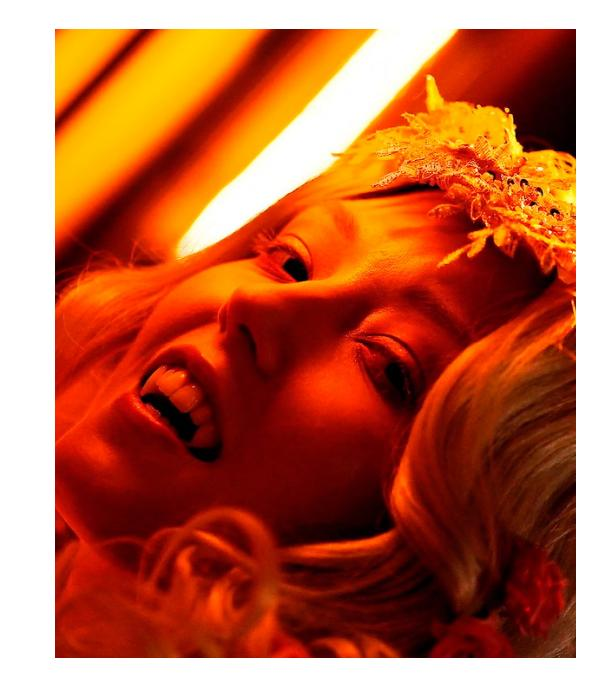
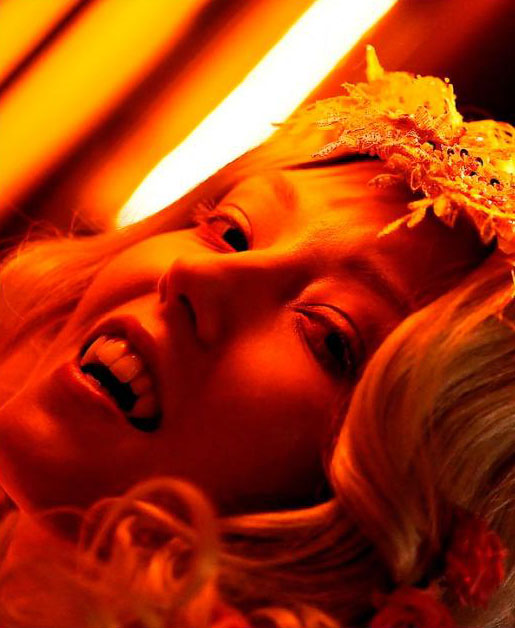
Quartz sync: Jul 4, 2025, 7:23 PM

diff --git a/content/Места и лица/Maharani/The Wyrd Sisters.md b/content/Места и лица/Maharani/The Wyrd Sisters.md
@@ -1,8 +1,8 @@
 Когда Сан-Диего пал перед Второй Инквизицией, многие его сородичи бежали на север, в Лос-Анджелес. Среди них были три «сестры»-Тремере — Хестер, Виолет Луна и Кёко, независимые практики, поселившиеся в спорном домене барона [[Долина|Долины]] [[Виктор Темпл|Виктора Темпла]]. Управляя небольшим эзотерическим магазином и книжной лавкой «Мистический Круг», сёстры Вирд стараются не привлекать к себе внимания, усвоив суровый урок о том, что бывает с теми, кто попадает в поле зрения Инквизиции.
 
-Будучи, возможно, единственной оставшейся в Лос-Анджелесе тремерской свитой, они часто оказываются востребованы, а Хестер и Виолет Луна прекрасно понимают природу общества сородичей и его негласные правила. Поэтому сёстры часто заключают сделки и предлагают услуги тем, кто готов им помочь и заслужить их доверие.
+![](wyrd.png)
 
-![](wyrd.jpeg)
+Будучи, возможно, единственной оставшейся в Лос-Анджелесе тремерской свитой, они часто оказываются востребованы, а Хестер и Виолет Луна прекрасно понимают природу общества сородичей и его негласные правила. Поэтому сёстры часто заключают сделки и предлагают услуги тем, кто готов им помочь и заслужить их доверие.
 
 ⬤ **Мистический кружок:** Ты достаточно втерся в доверие к сёстрам, чтобы иметь свободный доступ ко всем подсобкам их магазина. Магазин считается для тебя эквивалентом двухточечной Библиотеки (см. Убежище, V5 Core, стр. 189), хотя использовать его как убежище нельзя. Ты пользуешься этими томами по милости сестёр, и они могут отозвать это право или потребовать мелких услуг для его сохранения.
 

diff --git a/content/Места и лица/Thorn/Хлоя Хадсон.md b/content/Места и лица/Thorn/Хлоя Хадсон.md
@@ -4,7 +4,7 @@
 
 После спасения Хлои от Инквизиции [[Ева]] с помощью ритуала освободила её от кровавой связи, позволив Хлое вновь обрести свободу воли. В наши ночи Хлоя управляет информационной стороной домена барона [[Нелли Гриффит|Гриффит]] и руководит Сетью Архангела — организацией, помогающей гулям и сородичам освободиться от кровавых уз и зависимости от регнантов. [[The Archangel network|Сеть Архангела]] действует в городах по всей Северной Америке, предоставляя поддержку, информацию и помощь тем, кто стремится к свободе.
 
-![](tan.jpeg)
+![](tan.png)
 
 Многие гули страдают под гнётом зависимости — не только от витэ, но и от его поставщика, своего регнанта. Хлоя Хадсон начала свою карьеру как ведущая пиратского радио, открыто нарушая Маскарад, но, будучи гулем, она нашла другой путь, и так была создана Сеть. Теперь Сеть Архангела действует в городах по всей Северной Америке и выполняет прежде невиданную функцию — помогает тем, кто связан кровью, разорвать свои узы и освободить сердце и душу от сладостной зависимости от витэ своих регнантов. Цена проста — твое собственное витэ или полезная информация. Ты можешь быть гулем или вампиром — независимо от природы, в Сети Архангела найдётся место для тебя: друга, наставника, терапевта или просто плеча, на которое можно опереться. Если ты вампир, на тебе лежит дополнительная ответственность — поставлять «чистое» витэ, чтобы поддерживать связанных кровью, пока их связь с регнантом медленно ослабевает месяцами или даже годами.
 

diff --git a/content/Места и лица/Maharani/Виктор Темпл.md b/content/Места и лица/Maharani/Виктор Темпл.md
@@ -4,7 +4,7 @@
 
 В прошлом Виктор был женат и имел троих детей, но ради их безопасности дистанцировался от семьи. Когда многообещающая карьера Виктора в NBA была прервана несчастным случаем, он быстро сменил направление и основал Temple of Boom — звукозаписывающий бизнес, который стал любимцем музыкальной сцены Лос-Анджелеса. Именно этот успех привлёк его сира. Его сын [[Марк Темпл]] — заметная фигура среди анархов, связующее звено между группами города. Виктор поддерживает сложные отношения с бывшими союзниками: с [[Нелли Гриффит]] его связывает соперничество и общее прошлое в котерии, с [[Джаспер|Джаспером]] — союз по защите домена и борьбе с внешними угрозами. В прошлом Виктор и Джаспер вместе убили бывшего Шерифа, что окончательно отрезало путь назад в Камарилью.
 
-![](victor.jpeg)
+![](victor.png)
 
 Виктор активно участвует в политике города, выступая против давления [[Камарилья|Камарильи]] и [[Вторая Инквизиция|Второй Инквизиции]]. Он известен как медиатор между фракциями, но не боится идти на жёсткие меры ради защиты своих людей. После разрушения его прежнего клуба и покушения на жизнь, Виктор построил новый центр — [[Maharani]], который стал символом независимости и силы анархов Долины.
 

diff --git a/content/Места и лица/Погибшие или пропавшие/Айзек Абрамс.md b/content/Места и лица/Погибшие или пропавшие/Айзек Абрамс.md
@@ -2,7 +2,7 @@
 
 Айзек был одним из старейших и наиболее уважаемых представителей [[Анархи|анархов]] Лос-Анджелеса, выступал за мирное сосуществование между фракциями и предпочитал дипломатические методы решения конфликтов. Несмотря на анархические взгляды, сохранял уважение к традициям и иерархии, что сближало его с [[Камарилья|Камарильей]]. Айзек был известен как покровитель творческой элиты, поддерживал проекты в кино- и музыкальной индустрии, а также обеспечивал защиту и поддержку молодым и уязвимым сородичам. Его влияние ощущалось даже после отъезда, а имя стало символом порядка и дипломатии среди анархов.
 
-![](isaac.jpeg)
+![](isaac.png)
 
 Айзек заботился о безопасности своего домена и часто помогал другим вампирам, если это не угрожало его интересам. Его родной потомок — [[Эш Риверс]], бывший актёр, чья неустойчивая натура и проблемы с зависимостями стали причиной обращения. Айзек испытывал вину за судьбу Эша, их отношения со временем охладели, но сохранялись уважение и ответственность. Приёмная дочь Айзека — [[Вельвет Велюр|Вельвет Велюр]] (VV), владелица клуба Vesuvius, считала его отцом и тяжело переживала его отъезд, что сказалось на её публичной жизни и творчестве.
 

diff --git a/content/Места и лица/Thorn/Нелли Гриффит.md b/content/Места и лица/Thorn/Нелли Гриффит.md
@@ -2,7 +2,7 @@
 
 Становление произошло в 2010 году от [[Чез Прайс|Чеза Прайса]] во время поездки в Сан-Франциско. Их отношения быстро закончились, а после трагических событий — диаблери другой потомка Чеза, Донны Кембридж, — Нелли была вынуждена бежать в Лос-Анджелес. Здесь она сблизилась с бывшим бароном [[Айзек Абрамс|Айзеком Абрамсом]], который стал её покровителем и доверенным лицом, а также поручал ей важные миссии, включая работу за пределами города и враждебных доменах.
 
-![](nelli.jpeg)
+![](nelli.png)
 
 В Лос-Анджелесе Нелли основала не только сеть бутиков Thorn, но и школу моды Griffith College, поддерживая и защищая её из тени. Благодаря влиянию и харизме, она быстро заняла важное место в политике анархов, в 2019 году с помощью котерии Нелли уничтожила своего сира Чеза Прайса, освободившись от его влияния, а после ухода Айзека Абрамса в 2020 году была назначена бароном Голливуда. Её стиль управления отличается гибкостью, скоростью принятия решений и умением лавировать между традициями и новыми веяниями. Несмотря на принадлежность к анархам, Нелли сохраняет черты, присущие [[Камарилья|Камарилье]]: уважение к иерархии, традициям и красоте.
 

diff --git a/content/Места и лица/Asylum/Икс.md b/content/Места и лица/Asylum/Икс.md
@@ -4,7 +4,7 @@
 
 Особое место в жизни Икса занимает его дружба с [[Джаспер|Джаспером Хартвудом]], одним из немногих, кому он доверяет. Именно по просьбе Джаспера Икс помогал [[Аннабель]] в первые ночи её становления, а позже сопровождал её и её союзников, оказывая им поддержку своими необычными способностями.
 
-![](x.jpeg)
+![](x.png)
 
 Страдающий постоянными видениями и предчувствиями, Икс пытается осмыслить странные знамения с переменным успехом. Он утверждает, что всё, что он говорит трижды, становится правдой, из-за чего некоторые считают, что у него необычайно сильные пророческие способности. Его имя пользуется уважением среди бездомных и изгоев города, а его помощь иногда оказывается решающей для тех, кто проявил к нему доброту. Его мотивы часто остаются неясными, но он, похоже, стремится поддерживать баланс между различными фракциями города. В эти ночи его можно встретить в [[Santa Monica|Санта-Монике]], часто в компании каитиффов, гулей и тонкокровных, известных как Барабанный Круг. Он редко остаётся на одном месте долго, но бармен [[Вандал Кливeр]] нехотя передаёт послания к нему и от него.
 

diff --git a/content/Места и лица/Камарилья/Иб.md b/content/Места и лица/Камарилья/Иб.md
@@ -4,7 +4,7 @@
 
 В 2012 и 2021 годах, во время атак [[Вторая Инквизиция|Второй Инквизиции]], именно благодаря действиям Иб многие Вентру и их союзники сумели выжить и сохранить свои позиции. Её вклад был настолько значим, что после событий 2021 года она была становлена [[Аврора|Авророй]] и назначена шерифом Лос-Анджелесской Камарильи. В этой роли Иб отвечает за безопасность двора князя [[Ванневар Томас|Ванневара Томаса]], поддерживает порядок и лично курирует расследования, связанные с угрозами для секты.
 
-![](ib.jpeg)
+![](ib.png)
 
 Иб поддерживает рабочие отношения с ключевыми фигурами Камарильи: сенешалем [[Сюзанна Рошель]], регентом [[Максимилиан Штраус|Максимилианом Штраусом]], примогеном [[Катя|Катей]] и судьёй Авророй. Несмотря на лояльность секте, она сохраняет независимость суждений и действует прежде всего в интересах безопасности, а не политических интриг. Её прошлое гулем и связи с Фиорензой Савонной делают Иб объектом особого доверия среди старейшин Вентру, но и источником подозрений для некоторых представителей других кланов.
 

diff --git a/content/Места и лица/Погибшие или пропавшие/Аннабель.md b/content/Места и лица/Погибшие или пропавшие/Аннабель.md
@@ -2,7 +2,7 @@
 
 Была становлена в 2018 году [[Карвер|Карвером]] после нападения Носферату. После становления была вынуждена скрываться и выживать среди студентов, пока не была замечена котерией барона [[Айзек Абрамс|Айзека Абрамса]], которая взяла её под защиту. Аннабель вдохновляла молодых анархов, стала символом нового поколения движения, её образ и лозунги распространялись по всему городу.
 
-![](annabelle.jpeg)
+![](annabelle.png)
 
 Аннабель была буквально лицом движения: сородичи начали размещать её портреты на плакатах и листовках в местах, где бывали их враги. Её целью было применить стратегии и тактики сопротивления власти, которым она научилась в смертной жизни, к ужасающему миру вампиров, в который она попала внезапно и против своей воли. Решив не уходить тихо, Аннабель настаивала, что может показать сородичам Лос-Анджелеса, что идеалы их изначального Анархистского Восстания не исчезли — они лишь тлеют, и могут вновь разгореться, если хватит воли и решимости.
 

diff --git a/content/Места и лица/Валькирии/Рамона.md b/content/Места и лица/Валькирии/Рамона.md
@@ -1,6 +1,6 @@
 [[Гангрел]], которая работает с Валькириями, Рамона — уроженка Лос-Анджелеса, выглядящая как обращённая в позднем подростковом возрасте и ведущая себя соответственно. В 2022 была приглашена [[Кейси]] в ряды [[Валькирии|Валькирий]]. У неё особая связь с крысами, и она использует свою Крысиную Стаю как шпионов и посланников. Ездит на мотоцикле Kawasaki Ninja 400 2021 года в ярко-зелёном цвете.
 
-![](rat.jpeg)
+![](rat.png)
 
 Хотя она пережила худшие проявления как Камарильи, так и анархов в конце 1990-х, теперь она отказывается участвовать в политических интригах Камарильи или фанатичном рвении Шабаша. Она также открыто презирает лицемерие [[Анархи|баронов]] Лос-Анджелеса, указывая, что они не сдержали обещаний, и позволили Свободным Штатам прийти в упадок. Однако она восхищалась Аннабель, ведь молодая Бруха вновь зажгла огонь свободы среди анархов.
 

diff --git a/content/Места и лица/The Last Round/Карвер.md b/content/Места и лица/The Last Round/Карвер.md
@@ -2,7 +2,7 @@
 
 Считается, что именно Карвер стал сиром [[Аннабель]], когда спас её после нападения местного Носферату. После этого он надолго покинул город, но вернулся, чтобы оценить положение тонкокровных и помочь своей потомке и её союзникам в борьбе с наркоторговцами. Позже Карвер вновь исчез, но спустя два года неожиданно объявился, чтобы наладить контакты между тонкокровными Лос-Анджелеса и других городов, предчувствуя надвигающуюся войну. В этот раз он задержался дольше и оказался втянут в нападение Второй Инквизиции.
 
-![](carver.jpeg)
+![](carver.png)
 
 Карвер известен как радикал, не признающий авторитетов и готовый идти на крайние меры ради свободы. Благодаря обширным контактам Карвер способен достать практически всё — от оружия до редких реликвий и зелий тонкокровных, а его имя внушает опасения даже врагам.
 

diff --git a/content/Места и лица/Thorn/Джаспер.md b/content/Места и лица/Thorn/Джаспер.md
@@ -2,7 +2,7 @@
 
 В Лос-Анджелесе он стал частью котерии анархов вместе с [[Аннабель]], [[Виктор Темпл|Виктором]] и [[Нелли Гриффит|Нелли]], работая с ними на барона [[Айзек Абрамс|Абрамса]]. Вместе с Виктором он убил бывшего Шерифа. После гибели Аннабель от рук [[Вторая Инквизиция|Второй Инквизиции]] Джаспер стал ещё более замкнутым, а после раскола домена встал на сторону Нелли.
 
-![](jasper.jpeg)
+![](jasper.png)
 
 Джаспер известен как мастер засад и разведки, часто предоставляет услуги по сбору информации и защите территории другим вампирам за определённую цену. Его убежище находится в подземном лабиринте под парком Гриффит, где он изучает тайные ходы и мистические особенности города. Джаспер избегает контактов с людьми, предпочитая питаться кровью других вампиров, что делает его ещё более изолированным даже среди сородичей.
 

diff --git a/content/Места и лица/Погибшие или пропавшие/Эхо войны.md b/content/Места и лица/Погибшие или пропавшие/Эхо войны.md
@@ -1,6 +1,6 @@
 Как и после войн смертных, после сектантских войн остаётся много богатств для тех, кто достаточно ловок и беспринципен, чтобы их забрать. Не все трофеи достаются с павших — зачастую самая ценная добыча это информация или услуги, а не вещи. За каждое сокровище обычно появляются два врага — завистливый соперник и обиженный владелец, жаждущий мести. Трофеи не для слабонервных, но что вообще в этой бесконечной ночи для них?
 
-![](echoes.jpeg)
+![](echoes.png)
 
 ⬤ **Прах к праху:** Во время одной из сектантских войн тебе удалось заполучить прах павшего анциллы. Может, ты был причастен к его смерти, а может и нет, но теперь он твой. Ты не знаешь, к какому клану он принадлежал — это знает только Рассказчик, — но прах может пригодиться для ритуалов или алхимии.
 
